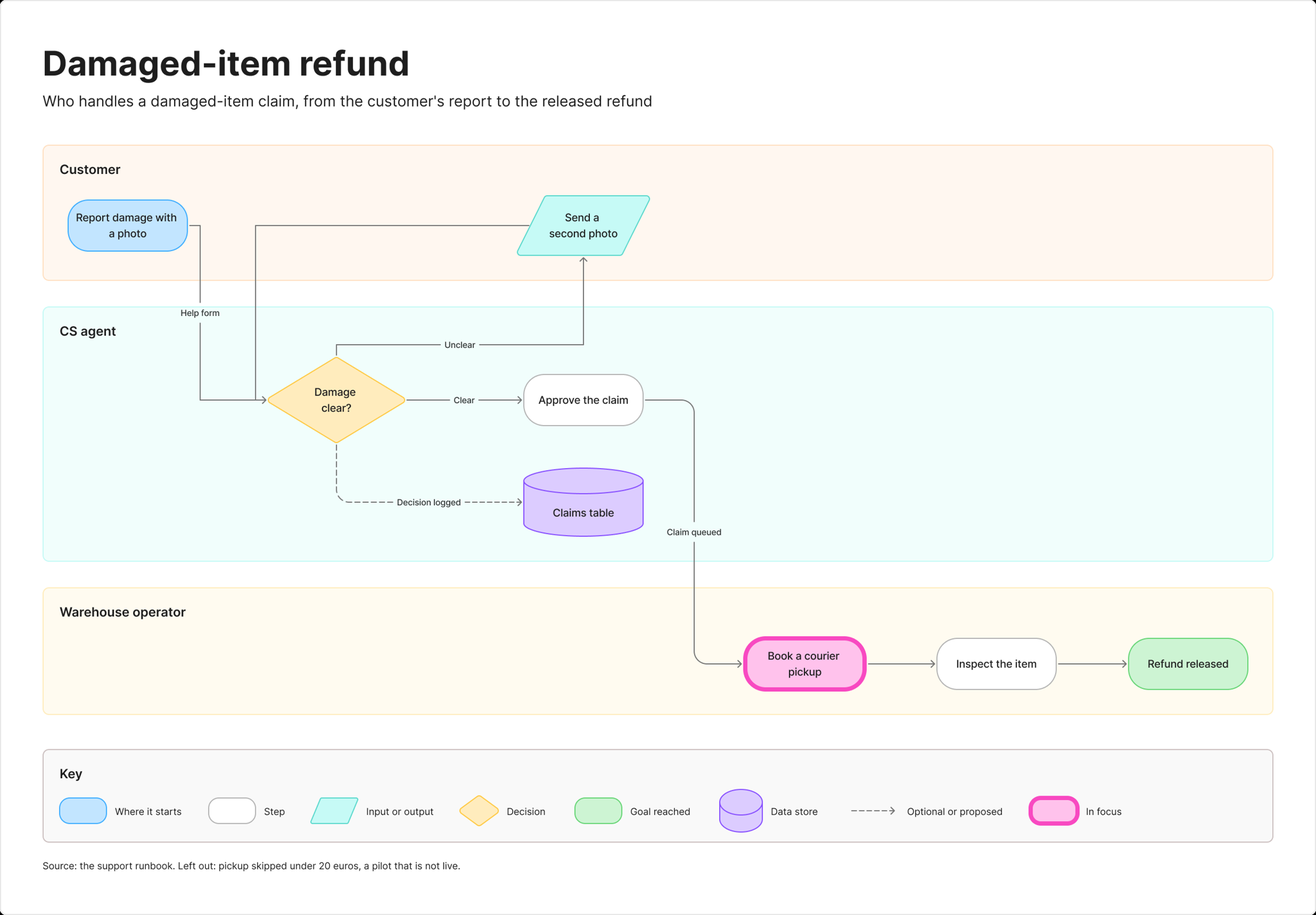
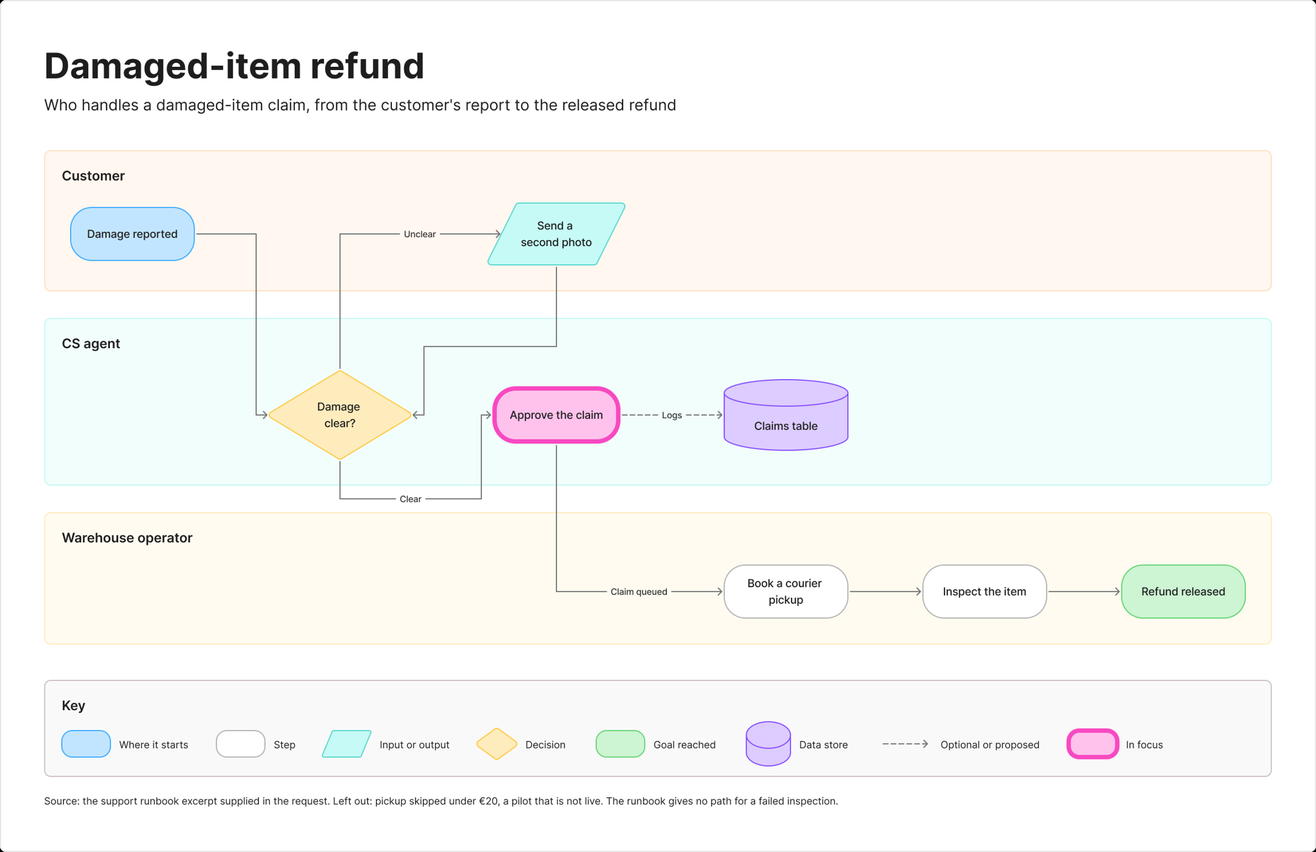
chore(product-owner): release v1.0.4.0 with kernel v1.2.5
The hub and sk-create-figjam move to v1.0.4.0 for the six fixes from
the three-model FigJam comparison, and the Project kernel moves to
v1.2.5 for the revision delete rule. Both changelogs name the
Knowledge files to replace and the kernel to paste. The Project README
gives the composer's new size, and the SYNC note records the hand
mirror and the kernel move. The operator's review of v1.2.5 is
pending, and nothing was pasted into claude.ai.

The gallery's process image is now SWE 2 Max's FJ-023 board, which
takes all 16 board points with the accent on the step the request
named. Its caption and the README say the run itself fails its PASS
line on its reply and its leftover temporary files, not on the board.

Verification:
- run_gates.sh: all 15 gates pass
- leak scan over the changed files: no new hits

Spec: 017-figjam-flow-generation/038-figjam-model-comparison
Commit-Id: 0000111

diff --git a/SYNC.md b/SYNC.md
@@ -15,7 +15,7 @@ The AI System Sync Compiler is retired. Nothing regenerates the Claude Project p
 No manifest, lock file or checksum ledger is kept. The old `claude-project.sync.json`, `package-lock.json` and the generated regions were archived when the compiler retired.
 
 - Bump the version in the `Custom Instructions.md` H1 in the same change that edits it. That number is what a Project reader sees, and a kernel whose rules moved while its version stood still is a kernel nobody can date. A rule change is a minor bump, a wording or typo fix is a patch.
-- The two version fields are independent on purpose. `Custom Instructions.md` carries the kernel's own H1 version, currently v1.2.4, and it moves when the kernel's rules move. `sk-product-owner/SKILL.md` frontmatter carries the skill version, currently 1.2.2.0, and it moves when the skill's rules move. The changelog under `sk-product-owner/changelog/` carries the four-part release stamp, which is a third scheme and belongs to the release rather than to either file. A skill number lower than a kernel number is not drift
+- The two version fields are independent on purpose. `Custom Instructions.md` carries the kernel's own H1 version, currently v1.2.5, and it moves when the kernel's rules move. `sk-product-owner/SKILL.md` frontmatter carries the skill version, currently 1.2.2.0, and it moves when the skill's rules move. The changelog under `sk-product-owner/changelog/` carries the four-part release stamp, which is a third scheme and belongs to the release rather than to either file. A skill number lower than a kernel number is not drift
 
 ## Review notes
 
@@ -101,3 +101,4 @@ No manifest, lock file or checksum ledger is kept. The old `claude-project.sync.
 - 2026-10-25 Claude Code, on the operator's request to work on the next steps after the recheck, closed four more findings in both packagings with the kernel unchanged at v1.2.3 and no skill release cut. The rubric says that after the first glance the filled shapes and their keyed fills outweigh connector labels, so the planned second glance names a filled group such as the gray end states. Section 8 counts a request to use the recommended answers sent after the playback as the playback's answer. Section 7 has the read-back read the nodes that were on the file before the write again and compare their count, position and size. The state type gives a multi-word or hyphenated state its readable name as a description, such as `state "In stay" as InStay`. Mirrored by hand: `Product Owner - Rules - Flow Quality Rubric.md`, `Product Owner - Templates - Flow Mode.md` and `Product Owner - Templates - Flow Type - State.md`. The kernel was not pasted into claude.ai and no review took place. This is a maintenance record, not a review.
 - 2026-10-25 Claude Code, on the operator's request to rewrite the README and the user guide for users and to write changelogs for every touched skill, moved the hub to v1.0.2.0, `sk-product-owner` to v1.2.2.0 and `sk-create-figjam` to v1.0.2.0, kernel unchanged at v1.2.3. `USER-GUIDE.md` became a day-to-day guide, and its mirror Reference - Connector Setup took the two setup changes that apply inside a Project, the six-calls-a-month Figma limit and the troubleshooting row for a plain generated board. The new usage sections are not mirrored, because the kernel and the Flow Knowledge files already carry them. The `sk-product-owner` release corrects its README only, so the kernel needs no edit and the Project README's alignment line now names Skill v1.2.2.0. The `sk-create-figjam` gallery and its screenshots README stay out of the Project, which carries neither the images nor the playbook they link, and `systems.py` declares that README unmirrored with the reason. The composer's comment-only refactor at `f4e09a4` is recorded as reviewed in `systems.py`, because the mirror's code block still equals `compose_board.py --template` byte for byte. This is a maintenance record, not a review: the operator's review of kernel v1.2.3 is pending.
 - 2026-10-25 Claude Code, on the operator's approval of the board design plan, moved the kernel H1 from v1.2.3 to v1.2.4 and the kernel from 70,036 to 70,403 bytes, with the hub and `sk-create-figjam` at v1.0.3.0. The skill gained `sk-create-figjam/assets/figjam-design.md`, the design every composed board is drawn in, and a new Knowledge file, `Product Owner - Assets - Flow Board Design.md`, mirrors it with the `THEME` line a Project pastes into the composer, `{}` for the shipped design. A Project runs no check, so the file says the line comes from the command-line skill's design check and is never written by hand, and it drops the check's commands and the skill paths. The kernel names the new file beside the Board Composer in the Flow consultation set, in the Knowledge table and in the composed write. `claude project/README.md` now counts 65 Knowledge files, 37 core, and gives the composer template as 1,152 lines and 45,984 characters in a Knowledge file of 56,359 bytes, with under 4,000 characters left for the model JSON and the `THEME` line, read off `compose_board.py --template`. The composer Knowledge step that quoted 43,054 characters and 6,900 left had gone stale before this change and now reads off the same template. Mirrored by hand: `Product Owner - Assets - Flow Board Composer.md`, `Product Owner - Rules - Flow Style Guide.md`, `Product Owner - Rules - Flow Quality Rubric.md`, `Product Owner - Templates - Flow Mode.md` and the seven `Product Owner - Templates - Flow Type` files, which now name colour roles and point at the design file. The design check's `DESIGN` lines and the reply's `Finding:` line for each stay skill-side, because a Project composes from a `THEME` line the check already passed. The kernel was not pasted into claude.ai and no review took place. This is a maintenance record, not a review: the operator's review of kernel v1.2.4 is pending.
+- 2026-10-26 Claude Code, on the operator's request to fix the six findings of the three-model FigJam comparison, moved the hub and `sk-create-figjam` to v1.0.4.0 and the kernel H1 from v1.2.4 to v1.2.5, the kernel from 70,403 to 70,483 bytes. The composer draws each gantt `after` as an arrow and marks both ends of an ER relationship with Figma's crow's-foot caps, so `Product Owner - Assets - Flow Board Composer.md` carries the new compact code, read off `compose_board.py --template`, and its model notes add the gantt `after` list and the ER `ends` code in place of `undirected`. `claude project/README.md` now gives the template as 1,170 lines and 47,148 characters in a Knowledge file of 58,003 bytes, with about 2,850 characters left for the model JSON and the `THEME` line. Mirrored by hand: `Product Owner - Templates - Flow Mode.md` takes the rule that a delete runs only on a reply that names its boards and the recovery step for a `use_figma` call with no `fileKey`, the Gantt and ER type files take the arrows and the end marks, the State type file takes the guard that names the one inner state a move leaves from and `Product Owner - Examples - Flow - State.md` takes the two guarded exits its source gained. The kernel's Flow write bullet now holds a revision's delete to its own second yes, to a question that names the old board by its title and is asked after the read-back, never a bare yes, and the Sync Loop declaration carries the resynced statement. The playbook changes stay skill-side, because the Project carries no playbook. The kernel was not pasted into claude.ai and no review took place. This is a maintenance record, not a review: the operator's review of kernel v1.2.5 is pending.

diff --git a/claude project/README.md b/claude project/README.md
@@ -8,7 +8,7 @@ Hand-maintained local package for the Product Owner claude.ai Project. The kerne
 
 ```text
 claude project/
-|-- Custom Instructions.md        <- synthesized Project kernel v1.2.4 (routing authority, SKILL.md is not loaded in this Project)
+|-- Custom Instructions.md        <- synthesized Project kernel v1.2.5 (routing authority, SKILL.md is not loaded in this Project)
 |-- README.md                     <- upload manifest and hand-authored parity note
 |-- kernel-review.json            <- dated record of one kernel review, read by no tool
 |-- templates/                    <- Product Owner - Local - Push Targets.md, filled and uploaded per user, never shared
@@ -60,7 +60,7 @@ claude project/
 
 ## Custom Instructions = Skill Kernel, Project-Adapted
 
-`Custom Instructions.md` v1.2.4 is the synthesized claude.ai kernel aligned to **Product Owner Skill v1.2.2.0**. It is the routing authority for this Project because `SKILL.md` is no longer mirrored into Project Knowledge. The kernel carries the full smart-routing prose, energy-scaled quality gates, backlog WHAT/WHY boundaries, source-backed technical HOW, product and engineering Doc routing, Quick as a separate energy override, Human Voice Rules, source authority, conflict blocking, ClickUp formatting, refinement fidelity and export-equivalent delivery.
+`Custom Instructions.md` v1.2.5 is the synthesized claude.ai kernel aligned to **Product Owner Skill v1.2.2.0**. It is the routing authority for this Project because `SKILL.md` is no longer mirrored into Project Knowledge. The kernel carries the full smart-routing prose, energy-scaled quality gates, backlog WHAT/WHY boundaries, source-backed technical HOW, product and engineering Doc routing, Quick as a separate energy override, Human Voice Rules, source authority, conflict blocking, ClickUp formatting, refinement fidelity and export-equivalent delivery.
 
 CLI-only mechanics are adapted: filesystem export becomes the **Deliverable Block**, direct resource loading becomes Project Knowledge consultation, and the response reports an export-equivalent path. Refinements keep delivery metadata outside preserved content unless equivalent metadata already exists in the source.
 
@@ -177,7 +177,7 @@ Push targets come from a private Knowledge file, `Product Owner - Local - Push T
 - `$flow`, `$figjam` and `put the launch plan on a FigJam gantt chart` select Flow Mode, which picks the diagram type from the reader's question, checks the model rule by rule and waits for a yes before any write. `write a task to tidy the figjam board labels` stays Task.
 - `$figjam a mindmap of the launch themes` names the mindmap as a kind the Figma connector cannot draw and offers a table or a list, with no connector call.
 - A `$flow` request replies in order: the intake or one proposed Brief, then a playback of the reading, then a gate as its own reply. A `Yes` to the Brief or the playback writes nothing, and only a `Yes` to the gate writes
-- With a Figma connector that lists `use_figma`, the board is composed in one `use_figma` call. Before it fills the model, the Project shows the composer code came back whole: 1,161 lines and 46,569 characters, a first line `const MODEL=__MODEL__;`, a second line `const THEME=__THEME__;` and a last line `};` after `createdCount:created.length,`. When it cannot show all four it writes through `generate_diagram` and says the board was generated rather than composed
+- With a Figma connector that lists `use_figma`, the board is composed in one `use_figma` call. Before it fills the model, the Project shows the composer code came back whole: 1,170 lines and 47,148 characters, a first line `const MODEL=__MODEL__;`, a second line `const THEME=__THEME__;` and a last line `};` after `createdCount:created.length,`. When it cannot show all four it writes through `generate_diagram` and says the board was generated rather than composed
 - A thrown error that starts `nothing was drawn` is not retried with the same model and the board is not read. The Project regroups the zones, checks the model again and says the first compose drew nothing
 - A revision of a written board composes the new board first, reads it back and asks for a second `Yes` before it deletes the old board section
 - A generated Story-Mode artifact names its artifact kind (Story or Epic), keeps the narrative first, uses Given/When/Then scenario bullets, closes with a Delivery section only when the requester asked for one or the artifact forces it, and carries no ticket header fields, story points or INVEST notes.
@@ -212,5 +212,5 @@ Push targets come from a private Knowledge file, `Product Owner - Local - Push T
 
 - Backlog artifacts remain WHAT/WHY focused. Docs may cover source-backed technical HOW, supplied implementation facts, architecture, APIs, schemas, debugging or operational procedures and clearly labelled technical proposals or recommendations. Never fabricate current facts, evidence, approval, authority or professional sign-off.
 - Project Knowledge may be retrieved as chunks, so the kernel repeats the routing, source-safety and delivery gates.
-- The Flow Board Composer file is 56,944 bytes and its code block is 46,569 characters on 1,161 lines, so retrieval may return it in chunks. The call takes at most 50,000 characters, which leaves about 3,400 for the model JSON and the `THEME` line written compact, and the largest shipped example model runs about 2,300. Whether claude.ai retrieval returns the code block whole is UNKNOWN until the live Project test runs, and the guide's whole-file test and the `generate_diagram` fallback cover a miss
+- The Flow Board Composer file is 58,003 bytes and its code block is 47,148 characters on 1,170 lines, so retrieval may return it in chunks. The call takes at most 50,000 characters, which leaves about 2,850 for the model JSON and the `THEME` line written compact, and the largest shipped example model runs about 2,300. Whether claude.ai retrieval returns the code block whole is UNKNOWN until the live Project test runs, and the guide's whole-file test and the `generate_diagram` fallback cover a miss
 - The local package is hand-maintained and the live claude.ai Project is manually uploaded, so local parity does not prove live deployment currency.

diff --git a/sk-create-figjam/changelog/v1.0.4.0.md b/sk-create-figjam/changelog/v1.0.4.0.md
@@ -1,0 +1,38 @@
+---
+title: "sk-create-figjam v1.0.4.0, Dependencies, End Marks and a Delete That Names Its Boards"
+description: "Gantt boards draw their dependencies, ER lines carry crow's-foot marks at both ends, a delete waits for a yes that names its boards and a missing file key no longer reads as an outage."
+trigger_phrases:
+  - "sk-create-figjam v1.0.4.0"
+  - "sk-create-figjam 1.0.4.0"
+  - "gantt dependency arrows"
+  - "er crow's foot marks"
+  - "figjam delete named yes"
+importance_tier: "normal"
+contextType: "general"
+version: 1.0.4.0
+---
+
+# v1.0.4.0, Dependencies, End Marks and a Delete That Names Its Boards
+
+The three-model comparison in `benchmark/reports/2026-10-25--manual-testing-playbook--figjam-model-comparison/` recorded six findings. Every reader had to work out a gantt's dependencies from its dates, an ER line's direction from its label and a state's exit from a zone's edge. One model deleted ten boards on a generic yes, and another read a missing file key as an outage. This release fixes all six.
+
+## What's New at a Glance
+
+- **Gantt dependencies are arrows.** Each `after` draws one arrow from the end of the bar it names into the bar that waits on it, so what must finish first reads without the dates. A milestone's arrow leaves the bar's foot and meets the diamond's side
+- **ER ends carry their cardinality.** Each relationship end takes Figma's crow's-foot mark, `ERD_EXACTLY_ONE`, `ERD_ZERO_OR_ONE`, `ERD_ZERO_OR_MORE` or `ERD_ONE_OR_MORE`, so a reader sees which side is the many. The label keeps both ends in words
+- **A delete names its boards.** `references/flow-mode.md` Section 6 runs a delete only on a reply that names the boards it removes, or a yes to a question that names exactly those boards. A bare yes, the gate's yes and an answer to a question that named no board delete nothing. A board this conversation did not write is deleted only when the request is about it, never to tidy the page
+- **A missing file key is not an outage.** Section 9 gains a recovery step: `use_figma` answers a call with no `fileKey` with "Failed to connect to MCP server 'figma'", so the model checks for the gate's key and retries once with it before it calls the route down
+
+## Changed
+
+- `references/types/state.md` now says a move that only one inner state takes names that state as its guard, such as `missed check-in [from Upcoming]`, because a transition from a composite leaves the zone's edge and reads as open from every state inside it. The Roamstay state example follows it
+- The gantt model gives a task with `after` its list of ids, and `expect.connectors` counts them. The ER model gives each relationship `ends`, one character per end, in place of `undirected`
+- The gantt and ER type references describe the arrows and the end marks, and their read-backs count them
+- Every board-quality and board-creation scenario now passes only when every expected signal is present as well as the scorecard, as the root playbook's acceptance rules already said, and the root playbook Section 3 says so. FJ-027 expects the end marks and FJ-028 the dependency arrows
+- `compose_board.py --self-test` proves each dependency is one arrow from the bar it waits on and each ER end carries the mark its model names, 1,029 checks in all
+- The compact composer grew from 46,569 to 47,148 characters, so the model JSON and the `THEME` line have about 2,850 characters of room in one `use_figma` call, down from about 3,400. The largest shipped example model runs about 2,300
+- The gallery's process image is SWE 2 Max's FJ-023 board, which carries the accent on the step the request named, after the comparison's gallery rule moved to rank the board points first
+
+## Upgrade
+
+In the claude.ai Project, replace Assets - Flow Board Composer, Templates - Flow Mode, Templates - Flow Type - Gantt, Templates - Flow Type - ER, Templates - Flow Type - State and Examples - Flow - State. Paste kernel v1.2.5, whose Flow write bullet now has a revision's delete wait for a yes to a question that names the old board by its title. A gantt or ER board drawn before the upgrade keeps its old lines until it is composed again.

diff --git a/sk-create-figjam/assets/screenshots/README.md b/sk-create-figjam/assets/screenshots/README.md
@@ -5,7 +5,7 @@ trigger_phrases:
   - "figjam board screenshots"
   - "figjam gallery"
   - "sk-create-figjam examples images"
-version: 1.0.1.0
+version: 1.0.2.0
 ---
 
 # sk-create-figjam - Board Screenshots
@@ -18,14 +18,14 @@ version: 1.0.1.0
 
 The skill composed every board here on a fictional test file, with invented brands such as Roamstay, Loomlist and Fernhouse. Each board was then rendered through the Figma REST API as an overview image with its longest edge at 2048 px or less. Each one was graded on the 22-point board scorecard in [`../../manual-testing-playbook/manual-testing-playbook.md`](../../manual-testing-playbook/manual-testing-playbook.md).
 
-The seven type boards come from the [three-model comparison](../../../benchmark/reports/2026-10-25--manual-testing-playbook--figjam-model-comparison/README.md), which ran each board-quality scenario on DeepSeek V4.1 Flash Max, GLM 5.3 Flash Max and SWE 2 Max with the design file `../figjam-design.md`. Each image is the best of the three: the highest total, then a pass, then the grader's rank. The last two boards come from earlier runs and predate the design file.
+The seven type boards come from the [three-model comparison](../../../benchmark/reports/2026-10-25--manual-testing-playbook--figjam-model-comparison/README.md), which ran each board-quality scenario on DeepSeek V4.1 Flash Max, GLM 5.3 Flash Max and SWE 2 Max with the design file `../figjam-design.md`. Each image is the best of the three: the most of the 16 points the two zooms score, then the highest total, then a pass, then the grader's rank. The last two boards come from earlier runs and predate the design file.
 
 ---
 
 ## 2. IMAGES
 
 - [`user-flow-board.png`](user-flow-board.png): user flow, from [FJ-022](../../manual-testing-playbook/board-quality/user-flow-board-quality.md), GLM 5.3 Flash Max, 22 of 22
-- [`process-board.png`](process-board.png): laned process, from [FJ-023](../../manual-testing-playbook/board-quality/process-board-quality.md), DeepSeek V4.1 Flash Max, 20 of 22. The pink outline sits on Book a courier pickup, where the request asked for Approve the claim
+- [`process-board.png`](process-board.png): laned process, from [FJ-023](../../manual-testing-playbook/board-quality/process-board-quality.md), SWE 2 Max, 20 of 22. The board takes all 16 points of the two zooms, the most of any FJ-023 board. The run itself fails its PASS line on two points that are not the drawing: its reply opens with prose before the board URL and it left its model and compose files in the temporary folder
 - [`architecture-board.png`](architecture-board.png): architecture, from [FJ-024](../../manual-testing-playbook/board-quality/architecture-board-quality.md), SWE 2 Max, 22 of 22
 - [`sequence-board.png`](sequence-board.png): sequence, from [FJ-025](../../manual-testing-playbook/board-quality/sequence-board-quality.md), GLM 5.3 Flash Max, 22 of 22
 - [`state-board.png`](state-board.png): state diagram, from [FJ-026](../../manual-testing-playbook/board-quality/state-board-quality.md), GLM 5.3 Flash Max, 22 of 22

diff --git a/changelog/v1.0.4.0.md b/changelog/v1.0.4.0.md
@@ -1,0 +1,33 @@
+---
+title: "product-owner v1.0.4.0, Boards That Show Their Links and Ask Before a Delete"
+description: "Gantt boards draw their dependencies, ER lines carry crow's-foot marks, Flow Mode deletes only boards a reply names and every board scenario needs its expected signals to pass."
+trigger_phrases:
+  - "product-owner v1.0.4.0"
+  - "product-owner 1.0.4.0"
+  - "figjam dependency arrows"
+  - "figjam delete named yes"
+importance_tier: "normal"
+contextType: "general"
+version: 1.0.4.0
+---
+
+# v1.0.4.0, Boards That Show Their Links and Ask Before a Delete
+
+The three-model FigJam comparison found six things to fix, from boards that hid their links to a model that deleted ten boards on a generic yes. `sk-create-figjam` v1.0.4.0 fixes all six.
+
+## What's New at a Glance
+
+- **Links you can see.** A gantt board draws an arrow for each dependency, and an ER board marks both ends of each relationship with its cardinality
+- **A delete names its boards.** Flow Mode deletes a board only when a reply names it or the user says yes to a question that names it, never on a bare yes, and never deletes a board the conversation did not write unless the request is about it. Kernel v1.2.5 says the same for a revision's delete
+- **Clearer recovery.** A missing file key no longer reads as a Figma outage
+- **One verdict rule.** A board scenario passes only when its scorecard passes and every expected signal is present
+
+## Changed
+
+- The comparison's gallery rule ranks the board points first, so the gallery's process image is now SWE 2 Max's board
+- The comparison's driver reads a board id from any `use_figma` result, and 21 of its exports were redacted again from raw after the runner's URL pattern had taken text glued to a URL
+- The Project README gives the composer's new size: 1,170 lines and 47,148 characters, with about 2,850 characters left for the model and the `THEME` line
+
+## Upgrade
+
+In the claude.ai Project, replace the Flow Knowledge files the `sk-create-figjam` v1.0.4.0 notes list and paste kernel v1.2.5.

diff --git a/README.md b/README.md
@@ -125,7 +125,7 @@ Both routes run the same rules and the same templates. Section 3 sets up either 
 | Artifacts | Task, subtask, bug report, Story, Epic, Doc and FigJam diagram |
 | Diagram types | Seven: user flow, process, architecture, sequence, state, ER and gantt |
 | Worked examples | 21 filled artifacts and 7 FigJam examples, one per diagram type |
-| Versions | Hub 1.0.3.0, `sk-product-owner` 1.2.2.0, `sk-create-figjam` 1.0.3.0, Project kernel v1.2.4 |
+| Versions | Hub 1.0.4.0, `sk-product-owner` 1.2.2.0, `sk-create-figjam` 1.0.4.0, Project kernel v1.2.5 |
 | License | MIT |
 
 &nbsp;
@@ -469,7 +469,7 @@ A backlog or doc route loads one mode reference and its template, never a second
 
 `claude project/` carries the same system for a claude.ai Project, which has no filesystem.
 
-- `Custom Instructions.md` is the kernel, v1.2.4, and the routing authority inside the Project
+- `Custom Instructions.md` is the kernel, v1.2.5, and the routing authority inside the Project
 - `knowledge/` holds the 65 knowledge files you upload
 - `README.md` holds the upload steps and the smoke matrix
 
@@ -651,6 +651,6 @@ Your Figma plan or seat has used its monthly tool calls. Open your FigJam drafts
 
 **Release notes**
 
-- **[→ Hub v1.0.3.0](changelog/v1.0.3.0.md)** - the latest hub release
+- **[→ Hub v1.0.4.0](changelog/v1.0.4.0.md)** - the latest hub release
 - **[→ `sk-product-owner` v1.2.2.0](sk-product-owner/changelog/v1.2.2.0.md)** - the latest backlog and doc packet release
-- **[→ `sk-create-figjam` v1.0.3.0](sk-create-figjam/changelog/v1.0.3.0.md)** - the latest FigJam packet release
+- **[→ `sk-create-figjam` v1.0.4.0](sk-create-figjam/changelog/v1.0.4.0.md)** - the latest FigJam packet release

diff --git a/sk-create-figjam/README.md b/sk-create-figjam/README.md
@@ -7,7 +7,7 @@ trigger_phrases:
   - "$figjam"
   - "figjam flow"
   - "figjam diagram"
-version: 1.0.3.0
+version: 1.0.4.0
 ---
 
 # sk-create-figjam
@@ -32,7 +32,7 @@ Real boards this packet composed on a fictional test file and rendered through t
 
 ![A user flow board for starting a return, with three zones and a highlighted goal](assets/screenshots/user-flow-board.png)
 
-**Process.** One lane per role, Customer, CS agent and Warehouse operator. The claims table is a violet cylinder and the dashed Decision logged edge matches the dashed entry in the key. The pink fill and outline sit on Book a courier pickup, where the request asked for Approve the claim, and the grader took a point for it.
+**Process.** One lane per role, Customer, CS agent and Warehouse operator. The claims table is a violet cylinder and the dashed Logs edge matches the dashed entry in the key. The pink fill and outline sit on Approve the claim, the handoff the request named, and the key names it In focus. The run that drew it fails its PASS line on its reply and its leftover temporary files, not on the board.
 
 ![A laned process board for a damaged-item refund across three roles](assets/screenshots/process-board.png)
 

diff --git a/SKILL.md b/SKILL.md
@@ -2,7 +2,7 @@
 name: product-owner
 description: "Product Owner hub: routes backlog, doc and FigJam diagram requests and two vendored tool packets via mode-registry.json."
 allowed-tools: [Read, Write, Edit, Bash, Glob, Grep, WebFetch, WebSearch, mcp__code_mode__call_tool_chain]
-version: 1.0.3.0
+version: 1.0.4.0
 ---
 
 <!-- Keywords: product-owner, sk-product-owner, sk-create-figjam, mcp-click-up, mcp-figma, backlog, task, bug report, user story, epic, prd, product documentation, figjam, user flow, clickup -->
